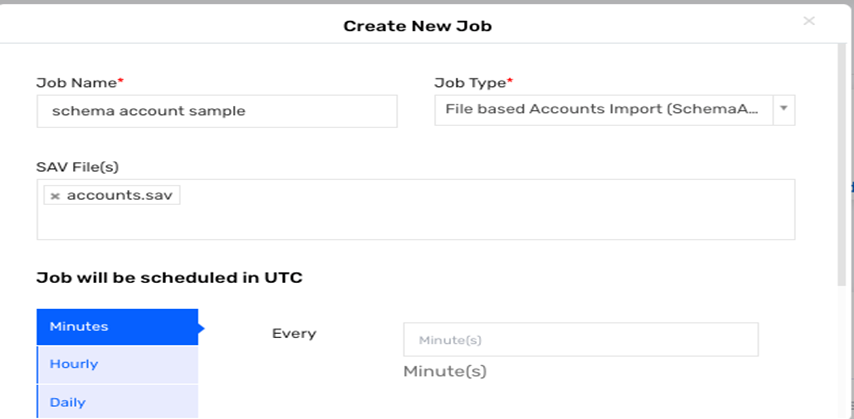
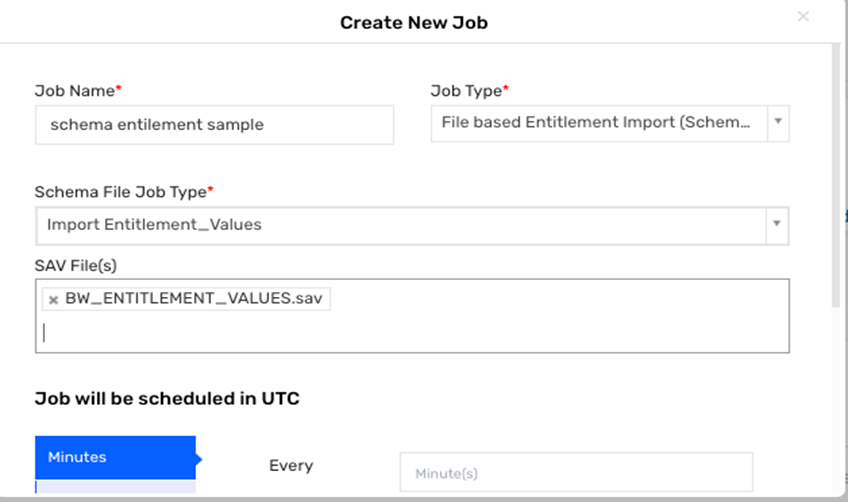
Updating Entitlement schema

diff --git a/Connections/schema based/Schema Entitlement Import/README.md b/Connections/schema based/Schema Entitlement Import/README.md
@@ -1,38 +1,69 @@
-# Saviynt Schema Jobs
+# Schema Based Entitlement Import
 
-Saviynt Schema Jobs are essential for maintaining data alignment between Saviynt and connected applications, supporting critical processes such as provisioning, access control, compliance, and risk management. Schema Jobs ensure that Saviynt has accurate, up-to-date information on user attributes, roles, and entitlements, enabling effective identity governance and administration.
+Saviynt Enterprise Identity Cloud (EIC) offers an out-of-the-box (OOB) solution to automate manual entitlement reconciliation through schema-based entitlement import.
 
+Saviynt’s schema-based entitlement jobs allow you to automate the reconciliation of manual entitlements. These jobs use specified schema files to pull entitlement data into Saviynt.
 
-## Key Functions
+## Prerequisites
+For schema-based entitlement imports, both SAV and CSV files are required:
+- **SAV files** should be placed in the `File` directory.
+- **CSV files** should be placed in the `Datafiles` folder.
+- Ensure that the CSV file name starts with the prefix specified in the `FileNameStartswith` property within the SAV file.
+- The SAV file name should be suffixed with `ENTITLEMENT_VALUES`.
 
-### 1. Schema Discovery and Metadata Mapping
-Schema Jobs allow Saviynt to discover the structure and metadata of connected systems, such as Active Directory and SAP Ariba. By retrieving metadata, Saviynt can understand data structures and attributes related to users, roles, and entitlements. This process includes:
-- Identifying key attributes (e.g., userID, email, first name, last name).
-- Mapping these attributes to Saviynt’s data model, establishing a seamless connection between Saviynt and external systems.
+## Integration Steps
 
-### 2. User and Entitlement Aggregation
-Schema Jobs are crucial for aggregating user and entitlement data from connected applications. Using the synchronized schema, Saviynt can pull identities and entitlements (e.g., roles, permissions, groups) from external systems. Aggregated data is used for:
-- Provisioning
-- Access reviews
-- Compliance checks
-- Risk assessments
+### 1. Create the SAV File
+Define an SAV file and place it in the `sav` folder under the file directory. Below is an example SAV file configuration for importing entitlements:
 
-### 3. Provisioning and Access Management
-Accurate schema information is key to Saviynt’s provisioning capabilities, which involve creating, updating, or deleting user accounts across applications. With up-to-date schema information:
-- Provisioning can proceed without errors, as it reflects the current structure and entitlements in connected systems.
-- Access requests can be handled efficiently, as requested access is matched to the latest data.
+```plaintext
+FILE_NAME_STARTS_WITH=Entitlement_Values_Import
+SKIP_NO_OF_LINES=1
+FILE_IMPORT_DELIMETER=,
+EMAILTEMPLATE=SchemaFailureNotification
+CREATE_SECURITYSYSTEM_IF_NOT_EXIST=YES
+CREATE_ENDPOINT_IF_NOT_EXIST_IN_SECURITYSYSTEM=YES
+CREATE_ENTITLEMENTTYPE_IF_NOT_EXIST_IN_ENDPOINT=YES
+ENTITLEMENT_VALUES_NOT_IN_FILE_ACTION=INACTIVE
+securitysystems,endpoints,entitlementtype,entitlement_value
 
-### 4. Compliance and Access Certification
-Schema Jobs assist with access certification by ensuring Saviynt maintains an accurate view of entitlements and roles within connected systems. This is essential for:
-- Precise risk assessment and compliance reporting, allowing Saviynt to evaluate user access based on policy.
-- Access reviews by administrators to ensure all access aligns with organizational compliance standards.
+### 2. Explanation of SAV File Properties
+
+- **FILE_NAME_STARTS_WITH**: Specifies the prefix for the corresponding CSV file name.
+- **SKIP_NO_OF_LINES**: Defines how many lines should be skipped at the beginning of the CSV file (e.g., for column headers).
+- **FILE_IMPORT_DELIMETER**: Specifies the character used to separate data items in the CSV file (e.g., comma `,`).
+- **CREATE_SECURITYSYSTEM_IF_NOT_EXIST**: Set to `YES` to automatically create a new security system if it doesn't already exist.
+- **CREATE_ENDPOINT_IF_NOT_EXIST_IN_SECURITYSYSTEM**: Set to `YES` to create an endpoint within the specified security system if it doesn't exist.
+- **CREATE_ENTITLEMENTTYPE_IF_NOT_EXIST_IN_ENDPOINT**: Set to `YES` to create a new entitlement type within the endpoint if it doesn't exist.
+- **ENTITLEMENT_VALUES_NOT_IN_FILE_ACTION**: Defines the action for entitlements present in EIC but missing from the CSV file:
+  - **INACTIVE**: Marks the entitlement as inactive.
+  - **NOACTION**: Retains the existing entitlements.
 
 ---
 
-## Summary
+### 3. Create the CSV File
 
-In summary, Saviynt Schema Jobs are critical to keeping Saviynt's data accurately synchronized with connected systems. They support identity governance, risk assessments, compliance checks, and more, ensuring Saviynt has real-time, up-to-date information across user attributes, roles, and entitlements.
+Define the CSV file according to the schema in the SAV file. Place the CSV file in the **Datafiles** directory.
 
---- 
+### Sample CSV File
 
-**Note:** This document provides an overview of the primary functions of Schema Jobs in Saviynt. For detailed configuration and troubleshooting, please refer to the official Saviynt documentation.
+```plaintext
+securitysystems,endpoints,entitlementtype,entitlement_value,customproperty1,status,soxcritical
+Amigopod,Amigopod,Access,IT Users,IT Engineers only,1,HIGH
+
+### 4. Schedule the Job in the EIC Control Panel
+
+1. Navigate to the **Job Control Panel** in Saviynt EIC.
+2. Create a new job of type **File-Based Entitlement Import (Schema Entitlement)**.
+3. Specify the job type as **Import Entitlement_Values**.
+4. Schedule the job according to your organization's requirements.
+
+### 5. Review Job Results
+
+- **Success**: After the job completes successfully, the CSV file will be moved to the **success** folder for archiving.
+- **Failure**: If the job fails, the CSV file will be moved to the **fail** folder for troubleshooting.
+
+### Troubleshooting
+
+#### Common Issue: "File Not Found" Error
+- **Resolution**: Ensure that the latest CSV file is present in the **Datafiles** folder and that the corresponding SAV file is correctly placed in the **File** .
